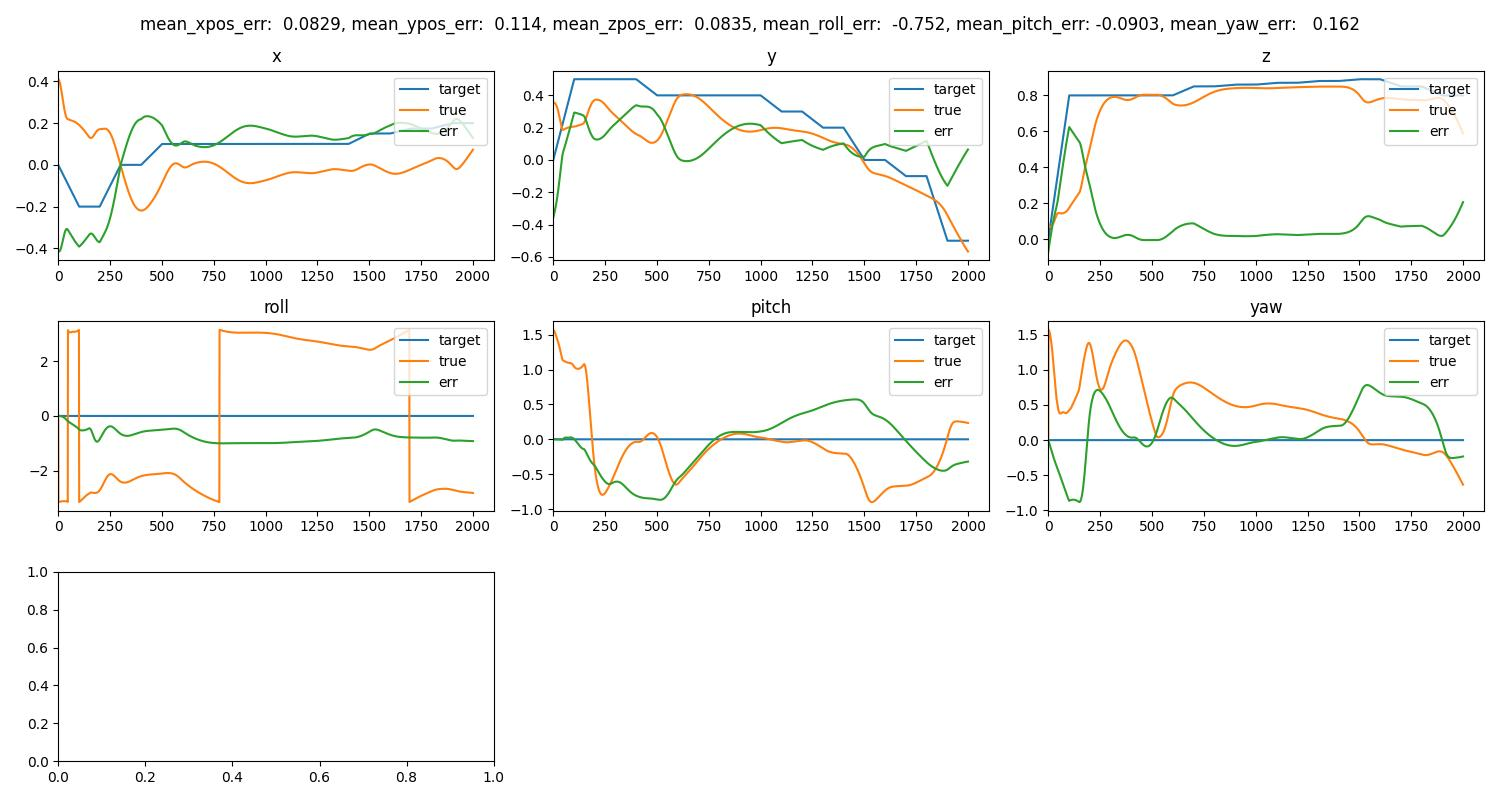
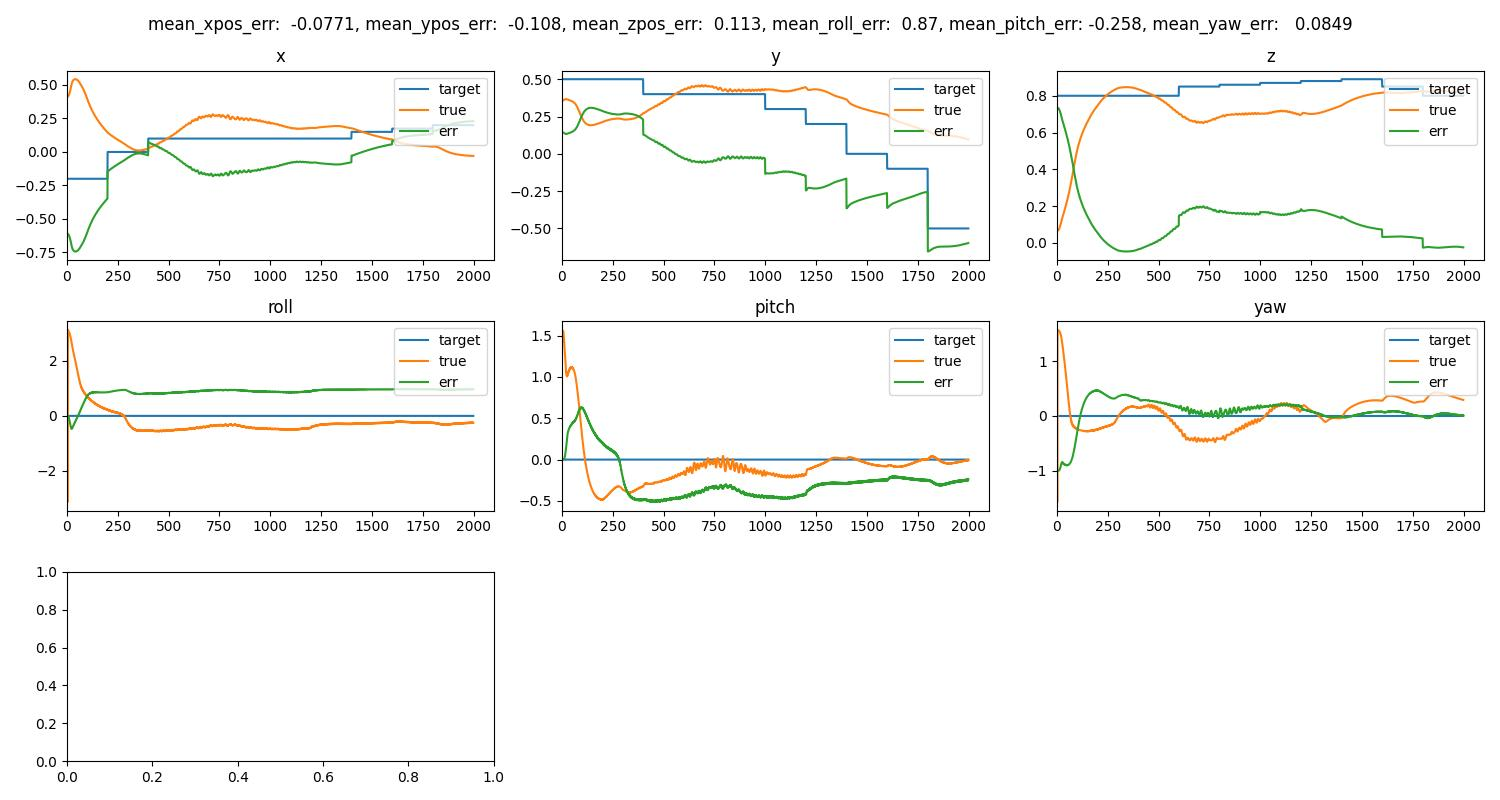
add open loop 2f85 control, add logging

diff --git a/mujoco/traj_op3.py b/mujoco/traj_op3.py
@@ -3,10 +3,12 @@ import numpy as np
 import time
 import matplotlib.pyplot as plt
 import matplotlib
-from utils import euler_to_R, R_to_euler, get_xpos, get_xrot
+from utils import euler_to_R, R_to_euler, get_xpos, get_xrot, get_grip_ctrl
 matplotlib.use('Agg')  # Set backend to non-interactive
 import yaml
-np.set_printoptions(precision=3, linewidth=300)
+from datetime import datetime
+import os
+np.set_printoptions(precision=3, linewidth=3000, threshold=np.inf)
 
 
     
@@ -14,8 +16,7 @@ def get_state(m, d):
     
     _, pos_2f85 = get_xpos(m, d, "right_pad1_site")
     _, rot_2f85 = get_xrot(m, d, "right_pad1_site")
-
-    grip_2f85 = np.array([0]) # UPDATE THIS ONCE GRIPPER IS IMPLEMENTED
+    grip_2f85 = np.array([0]) #get_grip_ctrl(d)
 
     return np.concatenate([
         pos_2f85, rot_2f85, grip_2f85
@@ -33,7 +34,6 @@ def plot_trajectory(traj_target, traj):
     pos_2f85_target = traj_target[:, :3]
     pos_2f85_traj = traj[:, :3]
     
-
     for i in range(3):
         ax = axes[i]
         j = i
@@ -62,6 +62,12 @@ def plot_trajectory(traj_target, traj):
         ax.set_xlim(left=0)
         # if i == 5:
         ax.legend(loc='upper right')
+        
+
+    ax = axes[6]
+    ax.plot(t, traj_target[:, 6],'C0', label="target")
+    ax.set_title("grip")
+    ax.set_xlim(left=0)
 
 
 
@@ -80,7 +86,7 @@ def plot_trajectory(traj_target, traj):
     axes[7].set_visible(False)
     axes[8].set_visible(False)
     plt.tight_layout()    
-    plt.savefig("./plots.jpg")
+    plt.savefig(f"mujoco/logs/{dtn}/plot.jpg")
         
         
     
@@ -165,11 +171,17 @@ def build_trajectory(hold=1):
 
 
 def ctrl(t, m, d, traj_i):
-    pos_torques = pd_ctrl(t, m, d, traj_i[:3], pos_err, pos_gains, tot_pos_joint_errs)    
-    rot_torques = pd_ctrl(t, m, d, traj_i[3:12], rot_err, rot_gains, tot_rot_joint_errs)  # rotation matrix
+    pos_u = pd_ctrl(t, m, d, traj_i[:3], pos_err, pos_gains, tot_pos_joint_errs)    
+    rot_u = pd_ctrl(t, m, d, traj_i[3:12], rot_err, rot_gains, tot_rot_joint_errs)  # rotation matrix
     
-    return pos_torques + rot_torques
+    grip_u = grip_ctrl(m, traj_i[-1])
+    
+    return np.hstack([pos_u + rot_u, grip_u])
 
+
+def grip_ctrl(m, traj_i):
+    ctrl_range = m.actuator_ctrlrange[-1] # 'fingers_actuator' is the last actuator
+    return traj_i*ctrl_range[1] 
 
 
 def pos_err(t, m, d, xpos_target):
@@ -182,7 +194,7 @@ def pos_err(t, m, d, xpos_target):
     update_errs(t, pos_errs, xpos_delta)
 
     # Get arm joints and their velocity addresses
-    ur3e_joint_indices = np.arange(num_joints)
+    ur3e_joint_indices = np.arange(NUM_JOINTS)
 
     # Compute full Jacobian and extract columns for arm joints
     Jp = np.zeros((3, m.nv))
@@ -238,7 +250,7 @@ def rot_err(t, m, d, xrot_target):
 
 
     # Get arm joints and their velocity addresses
-    ur3e_joint_indices = np.arange(num_joints)
+    ur3e_joint_indices = np.arange(NUM_JOINTS)
 
     # Compute full Jacobian and extract columns for arm joints
     Jr = np.zeros((3, m.nv))
@@ -258,11 +270,11 @@ def pd_ctrl(t, m, d, target, err_func, gains, tot_joint_errs):
     
     theta_delta = err_func(t, m, d, target)
     
-    torques = np.zeros((num_joints, ))
+    u = np.zeros((NUM_JOINTS, ))
     
     kp, kd, ki = gains.values()
     
-    for i in range(num_joints):  # 6 joints
+    for i in range(NUM_JOINTS):  # 6 joints
 
         # Get current state
         curr_joint_angle = d.qpos[i]
@@ -284,9 +296,9 @@ def pd_ctrl(t, m, d, target, err_func, gains, tot_joint_errs):
         
         update_joint_errs(i, tot_joint_errs, err)
         torque = kp[i] * err + kd[i] * -curr_joint_vel + ki[i]*tot_joint_errs[i]*dt # pid
-        torques[i] = torque
+        u[i] = torque
 
-    return torques
+    return u
 
 
 def update_errs(t, errs, err):
@@ -298,10 +310,14 @@ def update_joint_errs(i, tot_joint_errs, joint_err):
 
 
 
-with open("mujoco/gains2.yml", "r") as f: yml = yaml.safe_load(f)
-    
+dtn = datetime.now().strftime("%Y-%m-%d_%H:%M:%S")
+os.makedirs(f"mujoco/logs/{dtn}", exist_ok=True)
+
+with open("mujoco/config.yml", "r") as f: yml = yaml.safe_load(f)
 pos_gains = yml["pos"]
 rot_gains = yml["rot"]
+hold = yml["hold"]
+n = yml["n"]
 
 # ur3e  = 6  nq, 6  nv, 6 nu
 # 2f85  = 8  nq, 8  nv, 1 nu
@@ -309,16 +325,18 @@ rot_gains = yml["rot"]
 model_path = "assets/ur3e_2f85.xml"
 m, d = load_model(model_path)
 dt = m.opt.timestep
-num_joints = 6
+NUM_JOINTS = 6
 
-# traj_target = build_trajectory(hold=200)
-traj_target = build_discretized_trajectory(n=100, hold=100)
+traj_target = build_discretized_trajectory(n=n, hold=hold) if n else build_trajectory(hold=hold)
 T = traj_target.shape[0]
 
 pos_errs = np.zeros(shape=(T, 3))
 rot_errs = np.zeros(shape=(T, 9))
-tot_pos_joint_errs = np.zeros(num_joints)
-tot_rot_joint_errs = np.zeros(num_joints)
+grip_errs = np.zeros(shape=(T, 1))
+tot_pos_joint_errs = np.zeros(NUM_JOINTS)
+tot_rot_joint_errs = np.zeros(NUM_JOINTS)
+
+
 
 def main():
     
@@ -329,21 +347,24 @@ def main():
     t = 0
     while t < T:
  
-        d.ctrl[:-1] = ctrl(t, m, d, traj_target[t, :])
+        d.ctrl = ctrl(t, m, d, traj_target[t, :])
+        # print(traj_target)
 
         mujoco.mj_step(m, d)
         viewer.sync()
         
         traj_true[t] = get_state(m, d)
         
-        print(f"pos_target:{traj_target[t, :3]}, pos_true:{traj_true[t, :3]}, pos_err: {pos_errs[t, :]}")
-        print(f"rot_target:{R_to_euler(traj_target[t, 3:12].reshape(3, 3))}, rot_true:{R_to_euler(traj_true[t, 3:12].reshape(3, 3))}, rot_err: {R_to_euler(rot_errs[t, :].reshape(3, 3))}")
+        print(f"pos_target: {traj_target[t, :3]}, pos_true: {traj_true[t, :3]}, pos_err: {pos_errs[t, :]}")
+        print(f"rot_target: {R_to_euler(traj_target[t, 3:12].reshape(3, 3))}, rot_true: {R_to_euler(traj_true[t, 3:12].reshape(3, 3))}, rot_err: {R_to_euler(rot_errs[t, :].reshape(3, 3))}")
+        print(f"grip_target: {traj_target[t, -1]}")
         print("------------------------------------------------------------------------------------------")
         
         t += 1
         time.sleep(0.01)
 
     plot_trajectory(traj_target, traj_true)
+    with open(f"mujoco/logs/{dtn}/log.yml", 'w') as f: yaml.dump(yml, f)
         
         
     

diff --git a/utils.py b/utils.py
@@ -131,3 +131,8 @@ def get_xpos(m, d, site):
 def get_xrot(m, d, site):
     site_id = mujoco.mj_name2id(m, mujoco.mjtObj.mjOBJ_SITE, site)
     return site_id, d.site(site_id).xmat
+
+
+def get_grip_ctrl(d):    
+    print(d.sensor("fingers_actuatorfrc").data)
+    return d.sensor("fingers_actuatorfrc").data # actuatorfrc (0, 255)
